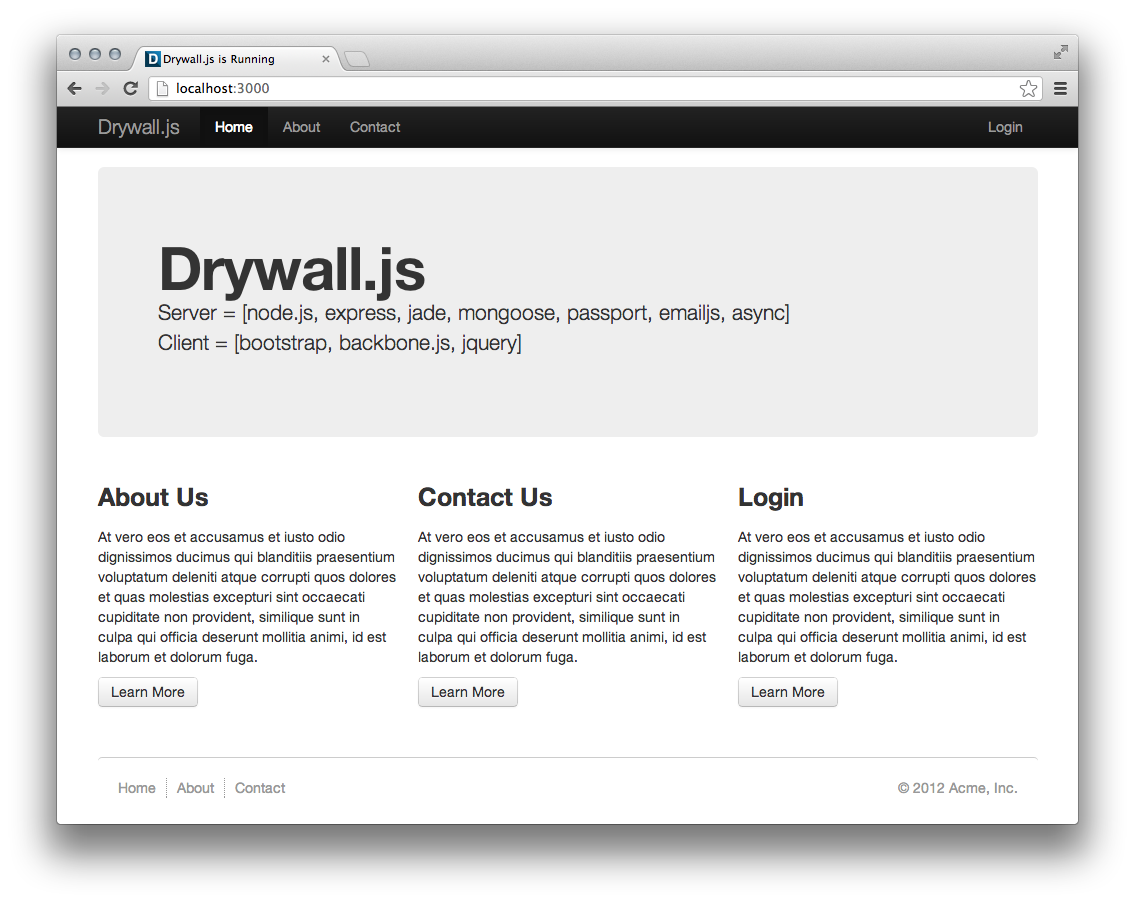
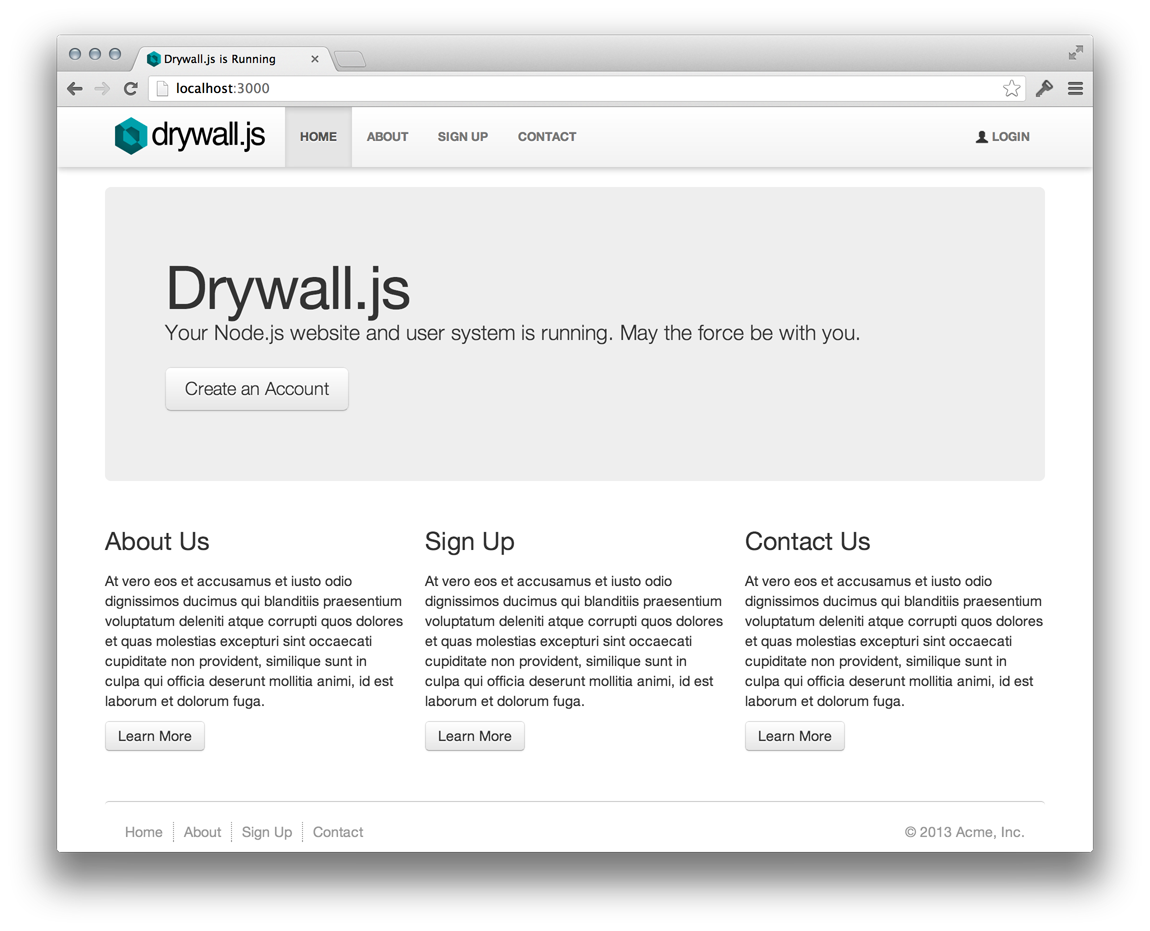
updated content and screen shots

diff --git a/index.html b/index.html
@@ -8,31 +8,11 @@
     <link href="vendor/bootstrap/css/docs.css" rel="stylesheet">
     <link href="vendor/google-code-prettify/prettify.css" rel="stylesheet">
     <link href="index.css" rel="stylesheet">
+    
     <meta name="viewport" content="width=device-width, initial-scale=1.0">
     <link rel="shortcut icon" href="favicon.ico">
   </head>
   <body>
-    <div class="navbar navbar-fixed-top">
-      <div class="navbar-inner">
-        <div class="container">
-          <button type="button" class="btn btn-navbar" data-toggle="collapse" data-target=".nav-collapse">
-             <span class="icon-bar"></span>
-            <span class="icon-bar"></span>
-            <span class="icon-bar"></span>
-          </button>
-          <a class="brand" href="index.html">Drywall.js</a>
-          <div class="nav-collapse collapse">
-            <ul class="nav">
-              <li class="active"><a href="./index.html">Overview</a></li>
-              <li><a href="#video-tour">Video Tour</a></li>
-              <li><a href="#screen-shots">Screen Shots</a></li>
-              <li><a href="#philosophy">Philosophy</a></li>
-            </ul>
-          </div>
-        </div>
-      </div>
-    </div>
-    
     <div class="jumbotron masthead">
       <div class="container">
         <h1>Drywall.js</h1>
@@ -43,7 +23,7 @@
         </p>
         <ul class="masthead-links">
           <li><a href="https://github.com/jedireza/drywall/">View GitHub Project</a></li>
-          <li>Version 0.1.0</li>
+          <li>Version 0.2.0</li>
         </ul>
       </div>
     </div>
@@ -51,52 +31,103 @@
     
     <div class="marketing">
       <div class="container">
-        <a name="video-tour"></a>
-        <h1>Watch the Video Tour</h1>
+        <h1>The Front-End Pages</h1>
         <p class="marketing-byline">
-          Photos and text don't do it justice. You should see it in action.
-          <br/>
-          <span class="badge">Updates for 0.1.0 coming soon.</span>
+          Home, about, sign-up and contact us.
         </p>
-        <div>
-          <iframe width="853" height="480" src="http://www.youtube.com/embed/zIBeXY7npmg?rel=0" frameborder="0" allowfullscreen></iframe>
-        </div>
         
-        <hr class="soften">
-        
-        <a name="screen-shots"></a>
-        <h1>Screen Shots</h1>
-        <p class="marketing-byline">
-          Once installed, these are some of the screens you'll be starting with.
-          <br/>
-          <span class="badge">Updates for 0.1.0 coming soon.</span>
-        </p>
-        <div id="myCarousel" class="carousel slide">
-          <div class="carousel-inner">
-            <div class="item active"><img src="assets/img/screen-shot-01.png"></div>
-            <div class="item"><img src="assets/img/screen-shot-02.png"></div>
-            <div class="item"><img src="assets/img/screen-shot-03.png"></div>
-            <div class="item"><img src="assets/img/screen-shot-04.png"></div>
-            <div class="item"><img src="assets/img/screen-shot-05.png"></div>
-            <div class="item"><img src="assets/img/screen-shot-06.png"></div>
-            <div class="item"><img src="assets/img/screen-shot-07.png"></div>
-            <div class="item"><img src="assets/img/screen-shot-08.png"></div>
-            <div class="item"><img src="assets/img/screen-shot-09.png"></div>
-            <div class="item"><img src="assets/img/screen-shot-10.png"></div>
-            <div class="item"><img src="assets/img/screen-shot-11.png"></div>
-            <div class="item"><img src="assets/img/screen-shot-12.png"></div>
-            <div class="item"><img src="assets/img/screen-shot-13.png"></div>
-            <div class="item"><img src="assets/img/screen-shot-14.png"></div>
-            <div class="item"><img src="assets/img/screen-shot-15.png"></div>
-            <div class="item"><img src="assets/img/screen-shot-16.png"></div>
+        <div class="row-fluid">
+          <div class="span4">
+            <a href="#open" rel="thumbnail"><img src="assets/img/screen-shot-01.png" /></a>
           </div>
-          <a class="left carousel-control" href="#myCarousel" data-slide="prev">‹</a>
-          <a class="right carousel-control" href="#myCarousel" data-slide="next">›</a>
+          <div class="span4">
+            <a href="#open" rel="thumbnail"><img src="assets/img/screen-shot-02.png" /></a>
+          </div>
+          <div class="span4">
+            <a href="#open" rel="thumbnail"><img src="assets/img/screen-shot-03.png" /></a>
+          </div>
         </div>
         
         <hr class="soften">
         
-        <a name="philosophy"></a>
+        <h1>Authentication Screens</h1>
+        <p class="marketing-byline">
+          Login, forgot password and reset password.
+        </p>
+        
+        <div class="row-fluid">
+          <div class="span4">
+            <a href="#open" rel="thumbnail"><img src="assets/img/screen-shot-04.png" /></a>
+          </div>
+          <div class="span4">
+            <a href="#open" rel="thumbnail"><img src="assets/img/screen-shot-05.png" /></a>
+          </div>
+          <div class="span4">
+            <a href="#open" rel="thumbnail"><img src="assets/img/screen-shot-06.png" /></a>
+          </div>
+        </div>
+        
+        <hr class="soften">
+        
+        <h1>The Administration Area</h1>
+        <p class="marketing-byline">
+          Manage users, accounts, admins, admin groups, statuses, categories and search.
+        </p>
+        
+        <div class="row-fluid">
+          <div class="span4">
+            <a href="#open" rel="thumbnail"><img src="assets/img/screen-shot-07.png" /></a>
+          </div>
+          <div class="span4">
+            <a href="#open" rel="thumbnail"><img src="assets/img/screen-shot-08.png" /></a>
+          </div>
+          <div class="span4">
+            <a href="#open" rel="thumbnail"><img src="assets/img/screen-shot-09.png" /></a>
+          </div>
+        </div>
+        <div class="row-fluid">
+          <div class="span4">
+            <a href="#open" rel="thumbnail"><img src="assets/img/screen-shot-10.png" /></a>
+          </div>
+          <div class="span4">
+            <a href="#open" rel="thumbnail"><img src="assets/img/screen-shot-11.png" /></a>
+          </div>
+          <div class="span4">
+            <a href="#open" rel="thumbnail"><img src="assets/img/screen-shot-12.png" /></a>
+          </div>
+        </div>
+        <div class="row-fluid">
+          <div class="span4">
+            <a href="#open" rel="thumbnail"><img src="assets/img/screen-shot-13.png" /></a>
+          </div>
+          <div class="span4">
+            <a href="#open" rel="thumbnail"><img src="assets/img/screen-shot-14.png" /></a>
+          </div>
+          <div class="span4">
+            <a href="#open" rel="thumbnail"><img src="assets/img/screen-shot-15.png" /></a>
+          </div>
+        </div>
+        <div class="row-fluid">
+          <div class="span4">
+            <a href="#open" rel="thumbnail"><img src="assets/img/screen-shot-16.png" /></a>
+          </div>
+          <div class="span4">
+            <a href="#open" rel="thumbnail"><img src="assets/img/screen-shot-17.png" /></a>
+          </div>
+          <div class="span4">
+            <a href="#open" rel="thumbnail"><img src="assets/img/screen-shot-18.png" /></a>
+          </div>
+        </div>
+        
+        <hr class="soften">
+        
+        <h1>The Account Area</h1>
+        <p class="marketing-byline">
+          Empty and ready for you to customize the shit out of it. Well.. go on then.
+        </p>
+        
+        <hr class="soften">
+        
         <h1>Jedi Mind Development</h1>
         <p class="marketing-byline">What you build with Drywall is more important than Drywall.</p>
       </div>

diff --git a/index.js b/index.js
@@ -4,4 +4,25 @@ $(document).ready(function () {
   
   //tooltips
   $("[rel='tooltip']").tooltip();
+  
+  //thumbnails
+  $("[rel='thumbnail']").click(function() {
+    var prevClass = $(this).attr('class');
+    
+    $("[rel='thumbnail']").removeClass('thumbnail-open');
+    $('.modal-backdrop').remove();
+    
+    if (prevClass != "thumbnail-open") {
+      $('body').append('<div class="modal-backdrop fade in"></div>');
+      $(this).toggleClass('thumbnail-open');
+    }
+  });
+  
+  //listen for esc
+  $(document).keyup(function(e) {
+    if (e.keyCode == 27) {
+      $('.modal-backdrop').remove();
+      $("[rel='thumbnail']").removeClass('thumbnail-open');
+    }
+  });
 });

diff --git a/vendor/bootstrap/css/docs.css b/vendor/bootstrap/css/docs.css
@@ -12,7 +12,6 @@
 
 body {
   position: relative;
-  padding-top: 40px;
 }
 
 /* Code in headings */
@@ -35,7 +34,6 @@ body > .navbar .brand {
   padding-right: 0;
   padding-left: 0;
   margin-left: 20px;
-  float: right;
   font-weight: bold;
   color: #000;
   text-shadow: 0 1px 0 rgba(255,255,255,.1), 0 0 30px rgba(255,255,255,.125);

diff --git a/index.css b/index.css
@@ -2,3 +2,14 @@
   color: #525252 !important;
   position: relative;
 }
+
+
+.thumbnail-open {
+}
+.thumbnail-open img {
+  position: absolute;
+  z-index: 9990;
+  left: 0px;
+  width: 100%;
+  height: auto;
+}
